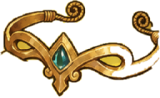
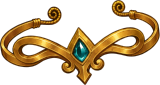
Treize icônes d'équipement reprises des illustrations fournies
Thomas a fourni quinze illustrations détourées en pleine résolution, sur
fond transparent. Elles remplacent partout le découpage automatique, et le
résultat n'est pas comparable : contour net, aucun badge par-dessus.

Entrent ainsi Chacal (visage, pendentif, sceau), Royal égyptien (coiffe,
collier, chevalière), Dharma (chakram, sherwani), Ronin (lames, gilet), le
casque et la cape de Voyageur, et le diadème d'Enchanteresse. On passe de
109 à 119 icônes sur 126 ; il reste Warden, Berserker et Countess.

Trois pièges valaient d'être notés dans le fichier :

- les noms de fichiers décrivent l'objet, pas l'ensemble, et deux se
  trompent de set. « bague-pierre-verte dharma » est la chevalière royale
  égyptienne, « torque-cuir-argent » est le chakram du Dharma. Le
  rapprochement a été fait sur les noms français du jeu, puis vérifié
  image par image, puis recoupé avec les découpages qu'elles remplacent.
- l'une d'elles portait les arêtes du damier de transparence incrustées en
  pixels opaques. reprendre() les efface en ne gardant que les taches
  principales, comme sur une découpe.
- chevaliere-voyageur.png est arrivé tronqué : l'anneau de Voyageur garde
  donc son découpage.

L'ordre d'assemblage est inversé au passage : les illustrations fournies
d'abord, les deux écrans du jeu ensuite et seulement pour combler les
trous. L'outil découpait treize pièces pour les jeter aussitôt.

diff --git a/tools/decouper.js b/tools/decouper.js
@@ -69,10 +69,63 @@ const CAPTURES = [
 // a plus qu'à rogner le vide autour et à mettre à la taille des autres icônes.
 // Un dessin propre en pleine résolution vaut toujours mieux qu'un découpage
 // automatique, si soigneux soit-il : quand il y en a un, il passe devant.
+// Les noms de fichiers viennent de Thomas et décrivent l'objet, pas l'ensemble :
+// le rapprochement a été fait sur les noms français du jeu (`noms-fr.js`) et
+// vérifié image par image. Deux d'entre eux portent « dharma » alors qu'ils
+// appartiennent ailleurs — c'est le dessin qui tranche, pas le nom du fichier.
 const DEJA_DETOUREES = [
   { fichier: 'Nouveau dossier/logo/bague-enchanteresse.png', nom: 'Enchantress_Ring' },
   { fichier: 'Nouveau dossier/logo/amulette-enchanteresse.png', nom: 'Enchantress_Neck' },
+  { fichier: 'Nouveau dossier/logo/diademe-enchanteresse-v3.png', nom: 'Enchantress_Hat' },
+  { fichier: 'Nouveau dossier/logo/casque-voyageur.png', nom: 'Voyager_Hat' },
+  { fichier: 'Nouveau dossier/logo/cape-voyageur.png', nom: 'Voyager_Neck' },
+  { fichier: 'Nouveau dossier/logo/casque-anubis.png', nom: 'Jackal_Hat' },
+  { fichier: 'Nouveau dossier/logo/collier-anubis.png', nom: 'Jackal_Neck' },
+  { fichier: 'Nouveau dossier/logo/bague-anubis.png', nom: 'Jackal_Ring' },
+  { fichier: 'Nouveau dossier/logo/tenue-egyptienne.png', nom: 'RoyalEgyptian_Hat' },
+  { fichier: 'Nouveau dossier/logo/collier-egyptien.png', nom: 'RoyalEgyptian_Neck' },
+  // La chevalière royale égyptienne : « dharma » dans le nom du fichier, mais
+  // c'est bien la bague à pierre verte de l'ensemble égyptien.
+  { fichier: 'Nouveau dossier/logo/bague-pierre-verte dharma.png', nom: 'RoyalEgyptian_Ring' },
+  // Le chakram du Dharma, que son cerclage de cuir et d'argent fait passer pour
+  // un torque.
+  { fichier: 'Nouveau dossier/logo/torque-cuir-argent.png', nom: 'Dharma_Hand' },
+  { fichier: 'Nouveau dossier/logo/veste-beige dharma.png', nom: 'Dharma_Garment' },
+  { fichier: 'Nouveau dossier/logo/lames-ronin.png', nom: 'Ronin_Hand' },
+  { fichier: 'Nouveau dossier/logo/gilet-ronin.png', nom: 'Ronin_Garment' },
 ];
+
+// L'autre écran où les pièces d'un ensemble sont visibles : le panneau
+// d'équipement d'un héros, où elles s'empilent en colonne. Il est bien plus
+// commode que l'écran « Ensemble » — le fond des tuiles y est violet, et non
+// doré, si bien que les objets s'en détachent d'eux-mêmes.
+const PANNEAUX = [
+  // Ici le décor de fond est du même violet que les tuiles : le repérage
+  // automatique confond les deux, et les tuiles sont donc relevées à la main.
+  {
+    fichier: 'Nouveau dossier/logo/2026-08-18 14_48_18-Greenshot.png',
+    set: 'RoyalEgyptian',
+    pieces: ['Hat', 'Neck', 'Ring'],
+    tuiles: [
+      { x: 34, y: 58, largeur: 99, hauteur: 132 },
+      { x: 34, y: 222, largeur: 99, hauteur: 132 },
+      { x: 34, y: 386, largeur: 99, hauteur: 132 },
+    ],
+  },
+  { fichier: 'Nouveau dossier/logo/2026-08-18 14_48_30-Calculatrice.png', set: 'Dharma', pieces: ['Hand', 'Garment'] },
+  { fichier: 'Nouveau dossier/logo/2026-08-18 14_49_05-Calculatrice.png', set: 'Jackal', pieces: ['Hat', 'Neck', 'Ring'] },
+];
+
+// Sur ces tuiles-là, plus petites que celles de l'écran « Ensemble », le blason
+// mord franchement sur l'objet et le découpage laisse des trous. Les neuf pièces
+// qu'elles donnent ont toutes, depuis, une illustration détourée qui prend leur
+// place : ce chemin ne sert plus qu'à un ensemble dont on n'aurait qu'une capture.
+//
+// `garder`, facultatif, restreint la liste des pièces à retenir.
+
+// Le violet du fond des tuiles, relevé sur les trois captures, et l'écart admis.
+const VIOLET = [148, 84, 214];
+const ECART_VIOLET = 60;
 
 // Proportions du carré d'illustration, mesurées sur les captures. Elles ne
 // changent pas d'une capture à l'autre : seuls le cadrage et le zoom changent,
@@ -274,7 +327,11 @@ const SEUIL_ENFERME = 32;
 const PART_ENFERMEE = 0.004;   // sous ce dixième de pour cent du carré, c'est un reflet
 const DEBORDEMENT = 0.4;       // au-delà de cette part de l'objet, le remplissage a fui
 
-const amorcerFondEnferme = (img, fond) => {
+// `famille` restreint les candidats à une teinte donnée. Sur l'écran « Ensemble »
+// c'est indispensable — les ors de l'objet ressemblent trop au fond doré pour
+// qu'on s'en remette au seul écart. Sur le panneau d'équipement, où le fond est
+// violet et les objets ne le sont pas, l'écart suffit et la restriction nuirait.
+const amorcerFondEnferme = (img, fond, famille = null) => {
   const { largeur, hauteur, pixels } = img;
   const teinte = new Int32Array(largeur * hauteur).fill(-1);
   let file = [];
@@ -305,11 +362,7 @@ const amorcerFondEnferme = (img, fond) => {
       Math.abs(pixels[a + 1] - pixels[b + 1]),
       Math.abs(pixels[a + 2] - pixels[b + 2]),
     );
-    // Deux conditions, parce qu'aucune ne suffit seule : la couleur du fond doré,
-    // que les ors de l'objet imitent de près, et la ressemblance avec le fond
-    // voisin, que le halo caché par l'objet met en défaut à lui seul.
-    const jaune = pixels[a] > 232 && pixels[a + 1] > 185 && pixels[a + 2] < 95;
-    if (jaune && ecart <= SEUIL_ENFERME) candidat[i] = 1;
+    if (ecart <= SEUIL_ENFERME && (!famille || famille(pixels[a], pixels[a + 1], pixels[a + 2]))) candidat[i] = 1;
   }
 
   // Les reflets de l'objet qui ressemblent au fond forment des rubans étroits le
@@ -481,7 +534,7 @@ const extraire = (capture) => {
     // le blason d'abord le ferait passer pour du fond brun sombre, et le creux
     // du bijou juste à côté ne ressemblerait plus à rien.
     const fond = marquerFond(carre);
-    amorcerFondEnferme(carre, fond);
+    amorcerFondEnferme(carre, fond, (r, v, b) => r > 232 && v > 185 && b < 95);
 
     // Deux éléments d'interface sont posés par-dessus l'illustration : le blason
     // de l'ensemble en bas à gauche, la pastille de niveau en haut à droite. On
@@ -505,6 +558,119 @@ const extraire = (capture) => {
   });
 };
 
+// Repère les tuiles d'un panneau d'équipement : leur fond violet forme, autour de
+// chaque objet, une plage d'un seul tenant. Une plage par tuile, du haut vers le bas.
+const trouverTuiles = (img) => {
+  const { largeur, hauteur, pixels } = img;
+  const violet = new Uint8Array(largeur * hauteur);
+  for (let i = 0; i < violet.length; i++) {
+    const o = i * 4;
+    const ecart = Math.max(
+      Math.abs(pixels[o] - VIOLET[0]),
+      Math.abs(pixels[o + 1] - VIOLET[1]),
+      Math.abs(pixels[o + 2] - VIOLET[2]),
+    );
+    if (ecart <= ECART_VIOLET) violet[i] = 1;
+  }
+
+  const vues = new Uint8Array(largeur * hauteur);
+  const tuiles = [];
+  for (let depart = 0; depart < violet.length; depart++) {
+    if (!violet[depart] || vues[depart]) continue;
+    const pile = [depart];
+    vues[depart] = 1;
+    let n = 0, x0 = largeur, y0 = hauteur, x1 = -1, y1 = -1;
+    while (pile.length) {
+      const i = pile.pop();
+      const x = i % largeur, y = (i / largeur) | 0;
+      n++;
+      if (x < x0) x0 = x; if (x > x1) x1 = x;
+      if (y < y0) y0 = y; if (y > y1) y1 = y;
+      for (const [dx, dy] of [[1, 0], [-1, 0], [0, 1], [0, -1]]) {
+        const nx = x + dx, ny = y + dy;
+        if (nx < 0 || ny < 0 || nx >= largeur || ny >= hauteur) continue;
+        const j = ny * largeur + nx;
+        if (!violet[j] || vues[j]) continue;
+        vues[j] = 1;
+        pile.push(j);
+      }
+    }
+    // Une tuile occupe une bonne part de la largeur du panneau, et son fond forme
+    // un cadre plein autour de l'objet. Le reste — un reflet du décor, un bout de
+    // ciel entre deux tuiles — échoue à l'une ou l'autre de ces conditions.
+    const l = x1 - x0 + 1, h = y1 - y0 + 1;
+    if (l > largeur * 0.4 && h > largeur * 0.35 && n > l * h * 0.12) {
+      tuiles.push({ x: x0, y: y0, largeur: l, hauteur: h });
+    }
+  }
+
+  // Un objet large coupe parfois le cadre violet en deux plages distinctes : elles
+  // décrivent alors la même tuile, et il faut les réunir.
+  tuiles.sort((a, b) => a.y - b.y);
+  const reunies = [];
+  for (const t of tuiles) {
+    const dernier = reunies[reunies.length - 1];
+    const recouvre = dernier && t.y < dernier.y + dernier.hauteur * 0.5;
+    if (!recouvre) { reunies.push({ ...t }); continue; }
+    const x1 = Math.max(dernier.x + dernier.largeur, t.x + t.largeur);
+    const y1 = Math.max(dernier.y + dernier.hauteur, t.y + t.hauteur);
+    dernier.x = Math.min(dernier.x, t.x);
+    dernier.y = Math.min(dernier.y, t.y);
+    dernier.largeur = x1 - dernier.x;
+    dernier.hauteur = y1 - dernier.y;
+  }
+  return reunies;
+};
+
+// La tuile sur laquelle le joueur a cliqué est surlignée en doré : son fond n'est
+// plus violet et elle échappe au repérage. Les tuiles étant régulièrement espacées,
+// on la retrouve en prolongeant le pas des autres.
+const completerTuiles = (tuiles, attendues, hauteurImage) => {
+  if (tuiles.length >= attendues || tuiles.length < 2) return tuiles;
+  const pas = tuiles[1].y - tuiles[0].y;
+  const complete = [...tuiles];
+  for (let rang = 1; complete.length < attendues; rang++) {
+    const y = tuiles[0].y + pas * (tuiles.length - 1 + rang);
+    if (y + tuiles[0].hauteur > hauteurImage) break;
+    complete.push({ ...tuiles[0], y });
+  }
+  return complete.sort((a, b) => a.y - b.y);
+};
+
+const extraireDuPanneau = (panneau) => {
+  const img = png.lire(path.join(RACINE, panneau.fichier));
+  const tuiles = panneau.tuiles || completerTuiles(trouverTuiles(img), panneau.pieces.length, img.hauteur);
+  if (tuiles.length < panneau.pieces.length) {
+    throw new Error(`${panneau.fichier} : ${tuiles.length} tuile(s) trouvée(s), ${panneau.pieces.length} attendues`);
+  }
+
+  return panneau.pieces.flatMap((emplacement, rang) => {
+    if (panneau.garder && !panneau.garder.includes(emplacement)) return [];
+    const t = tuiles[rang];
+    // On rentre d'un peu partout pour laisser dehors le liseré de la tuile, puis
+    // on s'arrête au-dessus des étoiles, qui occupent le bas comme sur l'autre écran.
+    const marge = Math.max(2, Math.round(t.largeur * 0.05));
+    const x = t.x + marge, y = t.y + marge;
+    const l = t.largeur - marge * 2;
+    const h = Math.round(t.hauteur * 0.86) - marge;
+    const tuile = png.decouper(img, x, y, l, h);
+
+    const fond = marquerFond(tuile);
+    amorcerFondEnferme(tuile, fond);
+    const masquer = (x0, y0, x1, y1) => {
+      for (let yy = Math.max(0, y0); yy < Math.min(h, y1); yy++) {
+        for (let xx = Math.max(0, x0); xx < Math.min(l, x1); xx++) fond[yy * l + xx] = 1;
+      }
+    };
+    masquer(0, Math.round(h * 0.42), Math.round(l * 0.30), h);                 // blason de l'ensemble
+    masquer(Math.round(l * 0.72), 0, l, Math.round(h * 0.20));                 // pastille de niveau
+
+    const garde = tachesPrincipales(fond, l, h);
+    const alpha = adoucir(garde, l, h);
+    return { nom: `${panneau.set}_${emplacement}`, image: mettreALaTaille(cadrerSurLObjet(tuile, alpha)) };
+  });
+};
+
 const mettreALaTaille = (objet) => {
   const echelle = LARGEUR_FINALE / Math.max(objet.largeur, objet.hauteur);
   return echelle < 1
@@ -518,39 +684,68 @@ const mettreALaTaille = (objet) => {
 // la réduction pondère les couleurs par elle — aucun liseré ne s'invite.
 const reprendre = ({ fichier, nom }) => {
   const img = png.lire(path.join(RACINE, fichier));
-  const alpha = new Uint8Array(img.largeur * img.hauteur);
-  for (let i = 0; i < alpha.length; i++) alpha[i] = img.pixels[i * 4 + 3];
+  const { largeur, hauteur } = img;
+
+  // Certains outils de détourage laissent traîner les arêtes du damier qui figure
+  // la transparence : un fin quadrillage de pixels opaques tout autour de l'objet.
+  // On ne garde donc que les taches principales, comme sur une découpe.
+  const dehors = new Uint8Array(largeur * hauteur);
+  for (let i = 0; i < dehors.length; i++) if (img.pixels[i * 4 + 3] <= 24) dehors[i] = 1;
+  const garde = tachesPrincipales(dehors, largeur, hauteur);
+
+  const alpha = new Uint8Array(largeur * hauteur);
+  for (let i = 0; i < alpha.length; i++) alpha[i] = garde[i] ? img.pixels[i * 4 + 3] : 0;
   return { nom, image: mettreALaTaille(cadrerSurLObjet(img, alpha)) };
 };
 
 const controle = process.argv.includes('--controle');
 const resultats = new Map();
-for (const capture of CAPTURES) {
-  for (const { nom, image } of extraire(capture)) resultats.set(nom, { nom, image, source: 'capture' });
-}
-// Après, pour que le dessin fourni l'emporte sur le découpage de la même pièce.
+
+// Les illustrations fournies d'abord : elles valent mieux que tout découpage, et
+// les connaître dès le départ évite de découper treize pièces pour les jeter.
 for (const pretes of DEJA_DETOUREES) {
   const { nom, image } = reprendre(pretes);
   resultats.set(nom, { nom, image, source: 'fournie' });
 }
 
-for (const { nom, image, source } of resultats.values()) {
+// Les deux écrans du jeu ne servent ensuite qu'à combler les trous.
+const manquantes = (set, emplacements) => emplacements.filter((e) => !resultats.has(`${set}_${e}`));
+
+for (const capture of CAPTURES) {
+  const attendues = capture.pieces.map((p) => p.emplacement);
+  if (!manquantes(capture.set, attendues).length) continue;
+  for (const { nom, image } of extraire(capture)) {
+    if (!resultats.has(nom)) resultats.set(nom, { nom, image, source: 'capture' });
+  }
+}
+
+for (const panneau of PANNEAUX) {
+  if (!manquantes(panneau.set, panneau.pieces).length) continue;
+  for (const { nom, image } of extraireDuPanneau(panneau)) {
+    if (!resultats.has(nom)) resultats.set(nom, { nom, image, source: 'panneau' });
+  }
+}
+
+const PROVENANCE = { fournie: '(illustration fournie)', panneau: "(panneau d'équipement)", capture: '(écran « Ensemble »)' };
+for (const { nom, image, source } of [...resultats.values()].sort((a, b) => a.nom.localeCompare(b.nom))) {
   png.ecrire(path.join(DESTINATION, `${nom}.png`), image);
-  console.log(`  ${nom}.png  ${image.largeur}×${image.hauteur}  ${source === 'fournie' ? '(illustration fournie)' : ''}`);
+  console.log(`  ${nom}.png`.padEnd(30) + `${image.largeur}×${image.hauteur}`.padStart(8) + '  ' + PROVENANCE[source]);
 }
 
 if (controle) {
   // Une planche unique, sur un fond sombre proche de celui des tuiles du site :
   // c'est là que se voient les bavures qu'un fond clair cacherait.
   const cellule = LARGEUR_FINALE + 20;
-  const planche = png.vide(cellule * 3, cellule * 3);
+  const colonnes = Math.ceil(Math.sqrt(resultats.size));
+  const rangs = Math.ceil(resultats.size / colonnes);
+  const planche = png.vide(cellule * colonnes, cellule * rangs);
   for (let i = 0; i < planche.largeur * planche.hauteur; i++) {
     planche.pixels[i * 4] = 58; planche.pixels[i * 4 + 1] = 42;
     planche.pixels[i * 4 + 2] = 18; planche.pixels[i * 4 + 3] = 255;
   }
   [...resultats.values()].forEach(({ image }, k) => {
-    const dx = (k % 3) * cellule + ((cellule - image.largeur) >> 1);
-    const dy = ((k / 3) | 0) * cellule + ((cellule - image.hauteur) >> 1);
+    const dx = (k % colonnes) * cellule + ((cellule - image.largeur) >> 1);
+    const dy = ((k / colonnes) | 0) * cellule + ((cellule - image.hauteur) >> 1);
     for (let y = 0; y < image.hauteur; y++) {
       for (let x = 0; x < image.largeur; x++) {
         const s = (y * image.largeur + x) * 4;

diff --git a/README.md b/README.md
@@ -95,7 +95,7 @@ Deux règles ont été tirées de cette comparaison, et elles comptent :
 | Dégâts de base | Le jeu affiche une valeur que le catalogue ne donne pas pour tous les héros. La ligne est masquée quand on ne la connaît pas, plutôt qu'affichée à zéro. |
 | Attaque et défense à ±1 | Les points de vie tombent au point près ; l'attaque et la défense peuvent différer d'une unité, le jeu arrondissant à un endroit qu'on ne voit pas. Sans effet sur les écarts entre configurations. |
 | 8 % des paliers d'éveil | 56 paliers sur 720 portent sur quatre statistiques que le catalogue désigne par un numéro qu'on n'a pas encore su nommer. Ils sont signalés à l'écran, mais non comptés. |
-| Icônes de 17 pièces d'équipement | Le wiki ne les héberge pas, et aucune capture ne les montre encore. Le site affiche à la place l'icône de l'ensemble. Il manque RoyalEgyptian, Warden et Jackal (chapeau, cou, anneau), Berserker, Countess, Dharma et Ronin (main, vêtement). |
+| Icônes de 7 pièces d'équipement | Le wiki ne les héberge pas et aucune capture ne les montre. Le site affiche à la place l'icône de l'ensemble. Il manque Warden (chapeau, cou, anneau), Berserker et Countess (main, vêtement). |
 
 Deux réglages restent à la main du joueur, parce que l'export ne les donne pas de
 façon sûre et qu'ils commandent directement les chiffres : le **niveau de la relique**
@@ -232,7 +232,7 @@ Les dessins, les noms et les données du jeu appartiennent à InnoGames.
 |---|---|
 | `images/heros/` | 136 portraits sur 144 — les cinq variantes légendaires reprennent celui du héros qu'elles doublent, et le wiki n'a encore ni Marie Laveau, ni Ivar the Boneless, ni Cécile Fatiman |
 | `images/sets/` | **45 icônes de set sur 45** |
-| `images/equipement/` | 109 icônes sur les 126 combinaisons set + emplacement |
+| `images/equipement/` | 119 icônes sur les 126 combinaisons set + emplacement |
 | `images/stats/` | 26 icônes de statistiques (attaque, défense, points de vie…) |
 | `images/reliques/` | **32 illustrations de relique** |
 | `images/classes/`, `images/types/`, `images/couleurs/` | icônes de classe, d'unité et de couleur |
